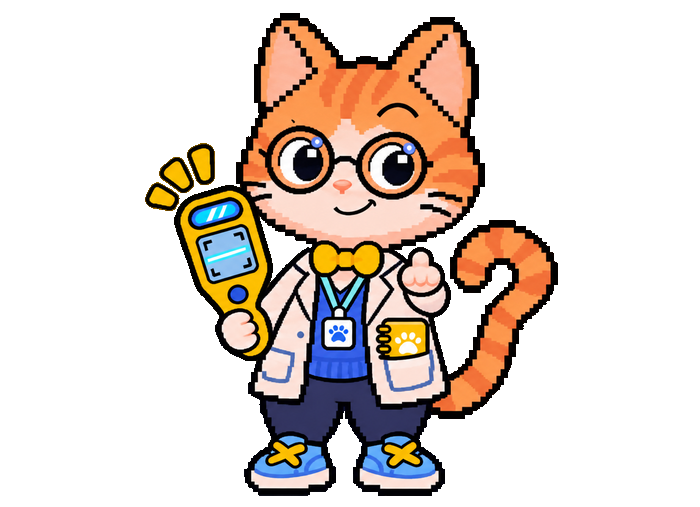
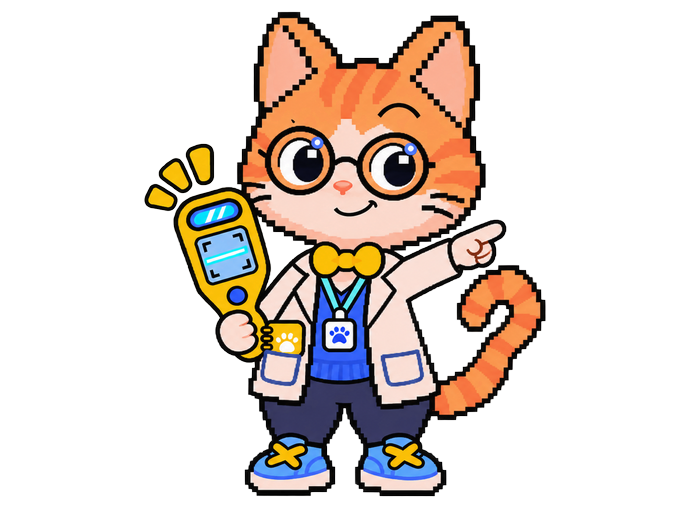
새 그림: 냥박사 설명 자세(오른쪽 가리키기), 운동장 꽃밭(꽃가루 자리)
Claude-Session: https://claude.ai/code/session_013gDdTbzoEotdu3iUeSL6QF

diff --git a/js/lab.js b/js/lab.js
@@ -175,7 +175,7 @@ Object.entries(LAB.places).forEach(([place, d]) => {
       const done = found.includes(pt.item);
       const inner = pt.mite
         ? `<span class="mites">${Array.from({ length: 16 }, (_, k) => `<i style="left:${8 + (k * 37) % 84}%;top:${12 + (k * 53) % 76}%;animation-delay:${(k % 5) * .18}s"></i>`).join('')}<em></em><em></em><em></em></span>`
-        : `<img src="${IMG.item(pt.item)}" alt="">`;
+        : `<img src="${IMG.item(pt.img || pt.item)}" alt="">`;
       const s = labEl(b, 'lab-spot' + (done ? ' done' : ' pulse') + (pt.mite ? ' mite' : ''), pt.r,
         `${inner}${corners()}${done ? '<span class="stamp">발견</span>' : ''}`, 'button');
       s.setAttribute('aria-label', done ? `${LAB.items[pt.item]} 다시 보기` : '스캔하기');

diff --git a/css/lab.css b/css/lab.css
@@ -80,7 +80,7 @@ b.lc { color:var(--coral-d); font-weight:400; font-family:var(--font-head); }
 
 /* ---------- 장소: 스캔할 곳 · 찾은 칸 ---------- */
 .lab-spot { border:0; background:transparent; padding:0; cursor:pointer; }
-.lab-spot > img { width:100%; height:100%; image-rendering:pixelated; }
+.lab-spot > img { width:100%; height:100%; object-fit:contain; image-rendering:pixelated; }
 .lab-spot > i, .lab-lens > i { position:absolute; width:26px; height:26px; border:0 solid var(--coral-d); }
 .lab-spot > .c1, .lab-lens > .c1 { left:-14px; top:-14px; border-left-width:6px; border-top-width:6px; }
 .lab-spot > .c2, .lab-lens > .c2 { right:-14px; top:-14px; border-right-width:6px; border-top-width:6px; }

diff --git a/data/lab-items.js b/data/lab-items.js
@@ -42,7 +42,7 @@ window.LAB = {
     ground: {
       scene: 'S24', name: '운동장', no: 3, done: 'S33',
       points: [
-        { item: 'pollen', r: [1380, 575, 140, 140], go: 'S25' },  // 오른쪽 아래 꽃밭 (팀 점검 11/8)
+        { item: 'pollen', img: 'pollen_bed', r: [1316, 596, 266, 140], go: 'S25' },  // 오른쪽 아래 꽃밭 (팀 점검 11/8)
         { item: 'sun',    r: [1196, 104, 116, 116], go: 'S27' },   // 오른쪽 위 하늘
         { item: 'dust',   r: [255, 610, 130, 130], go: 'S29' },   // 모래밭
         { item: 'insect', r: [560, 470, 110, 110], go: 'S31' }    // 하늘색 미끄럼틀 옆

diff --git a/sw.js b/sw.js
@@ -32,6 +32,7 @@ const FILES = [
   './assets/card/bg_lab.jpg',
   './assets/card/bg_playground.jpg',
   './assets/char/nyang_cheer.png',
+  './assets/item/pollen_bed.png',
   './assets/char/nyang_cheer_b.png',
   './assets/char/nyang_idle_b.png',
   './assets/char/nyang_idle_blink.png',
